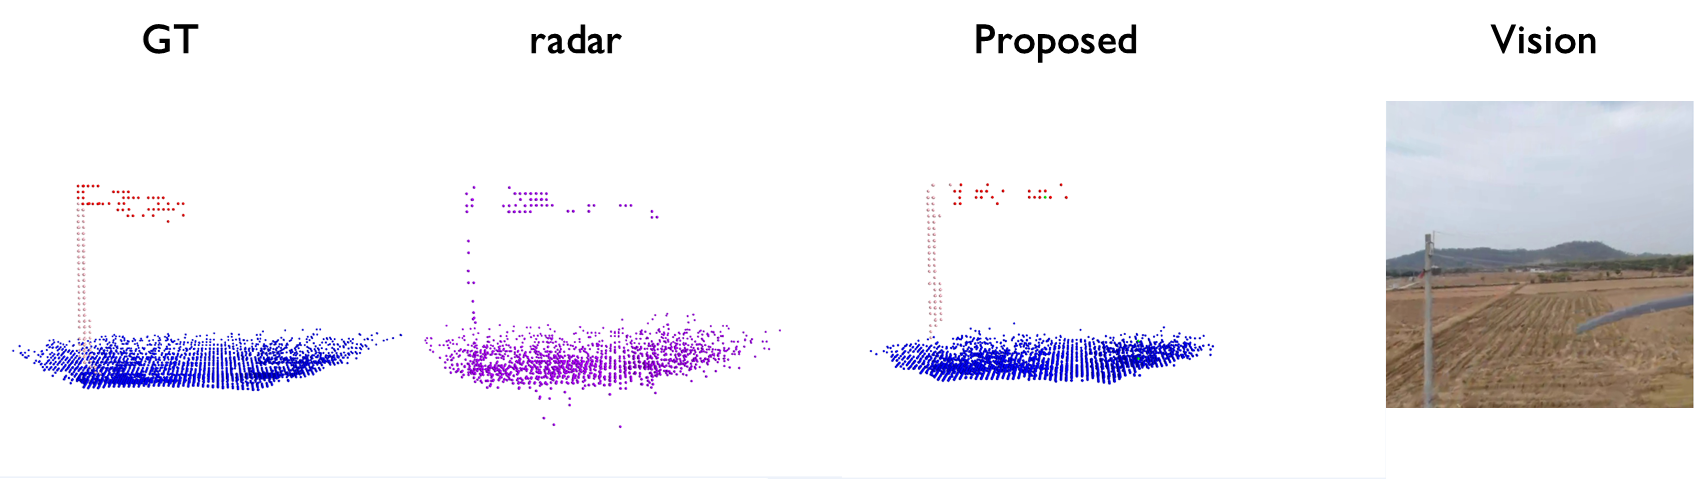
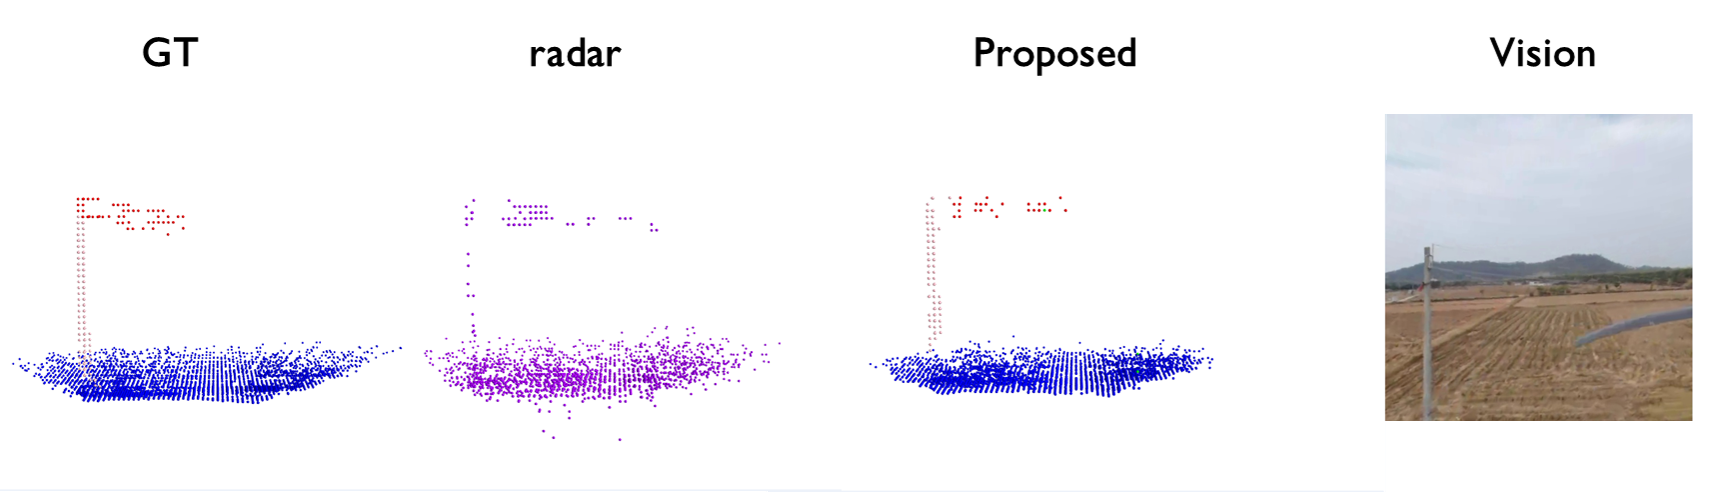
minor modifications

diff --git a/_pages/about.md b/_pages/about.md
@@ -7,7 +7,7 @@ redirect_from:
   - /about.html
 ---
 
-I am a fourth-year PhD student from [FAST Lab](https://github.com/ZJU-FAST-Lab) at Zhejiang University, fortunately advised by Professor [Fei Gao](http://zju-fast.com/research-group/fei-gao/). Prior to PhD, I received my B.Eng. Degree from Zhejiang University, in 2021, with an honor degree at [Chu Kochen Honors College](http://ckc.zju.edu.cn/ckcen/main.htm). I am expected to graduate in **Summer 2026** and am open to the job market.
+I am a fourth-year PhD Candidate from [FAST Lab](https://github.com/ZJU-FAST-Lab) at Zhejiang University, fortunately advised by Professor [Fei Gao](http://zju-fast.com/research-group/fei-gao/). Prior to PhD, I received my B.Eng. Degree from Zhejiang University, in 2021, with an honor degree at [Chu Kochen Honors College](http://ckc.zju.edu.cn/ckcen/main.htm). I am expected to graduate in **Summer 2026** and am open to the job market.
 
 My current research interest lies in data-driven environmental perception applied on mobile robots (e.g., UAVs, self-driving cars). Specifically, my recent studies focus on robust sensing modalities such as mmWave radars, aiming to facilitate all-weather safe navigation in various challenging environments. I have also committed to designing novel and elegant autonomous robot systems such as [Terrestrial-Aerial Bimodal Vehicles](https://www.youtube.com/watch?v=Bdb5mK9OKIo) and [Target-Tracking UAVs](https://www.youtube.com/watch?v=w8ECy6rgYa8&t=11s) which have been reported by [New Scientist](https://www.youtube.com/watch?v=kaijXxgYyRY) and [IEEE Specturm](https://spectrum.ieee.org/video-friday-snugglebot). 
 
